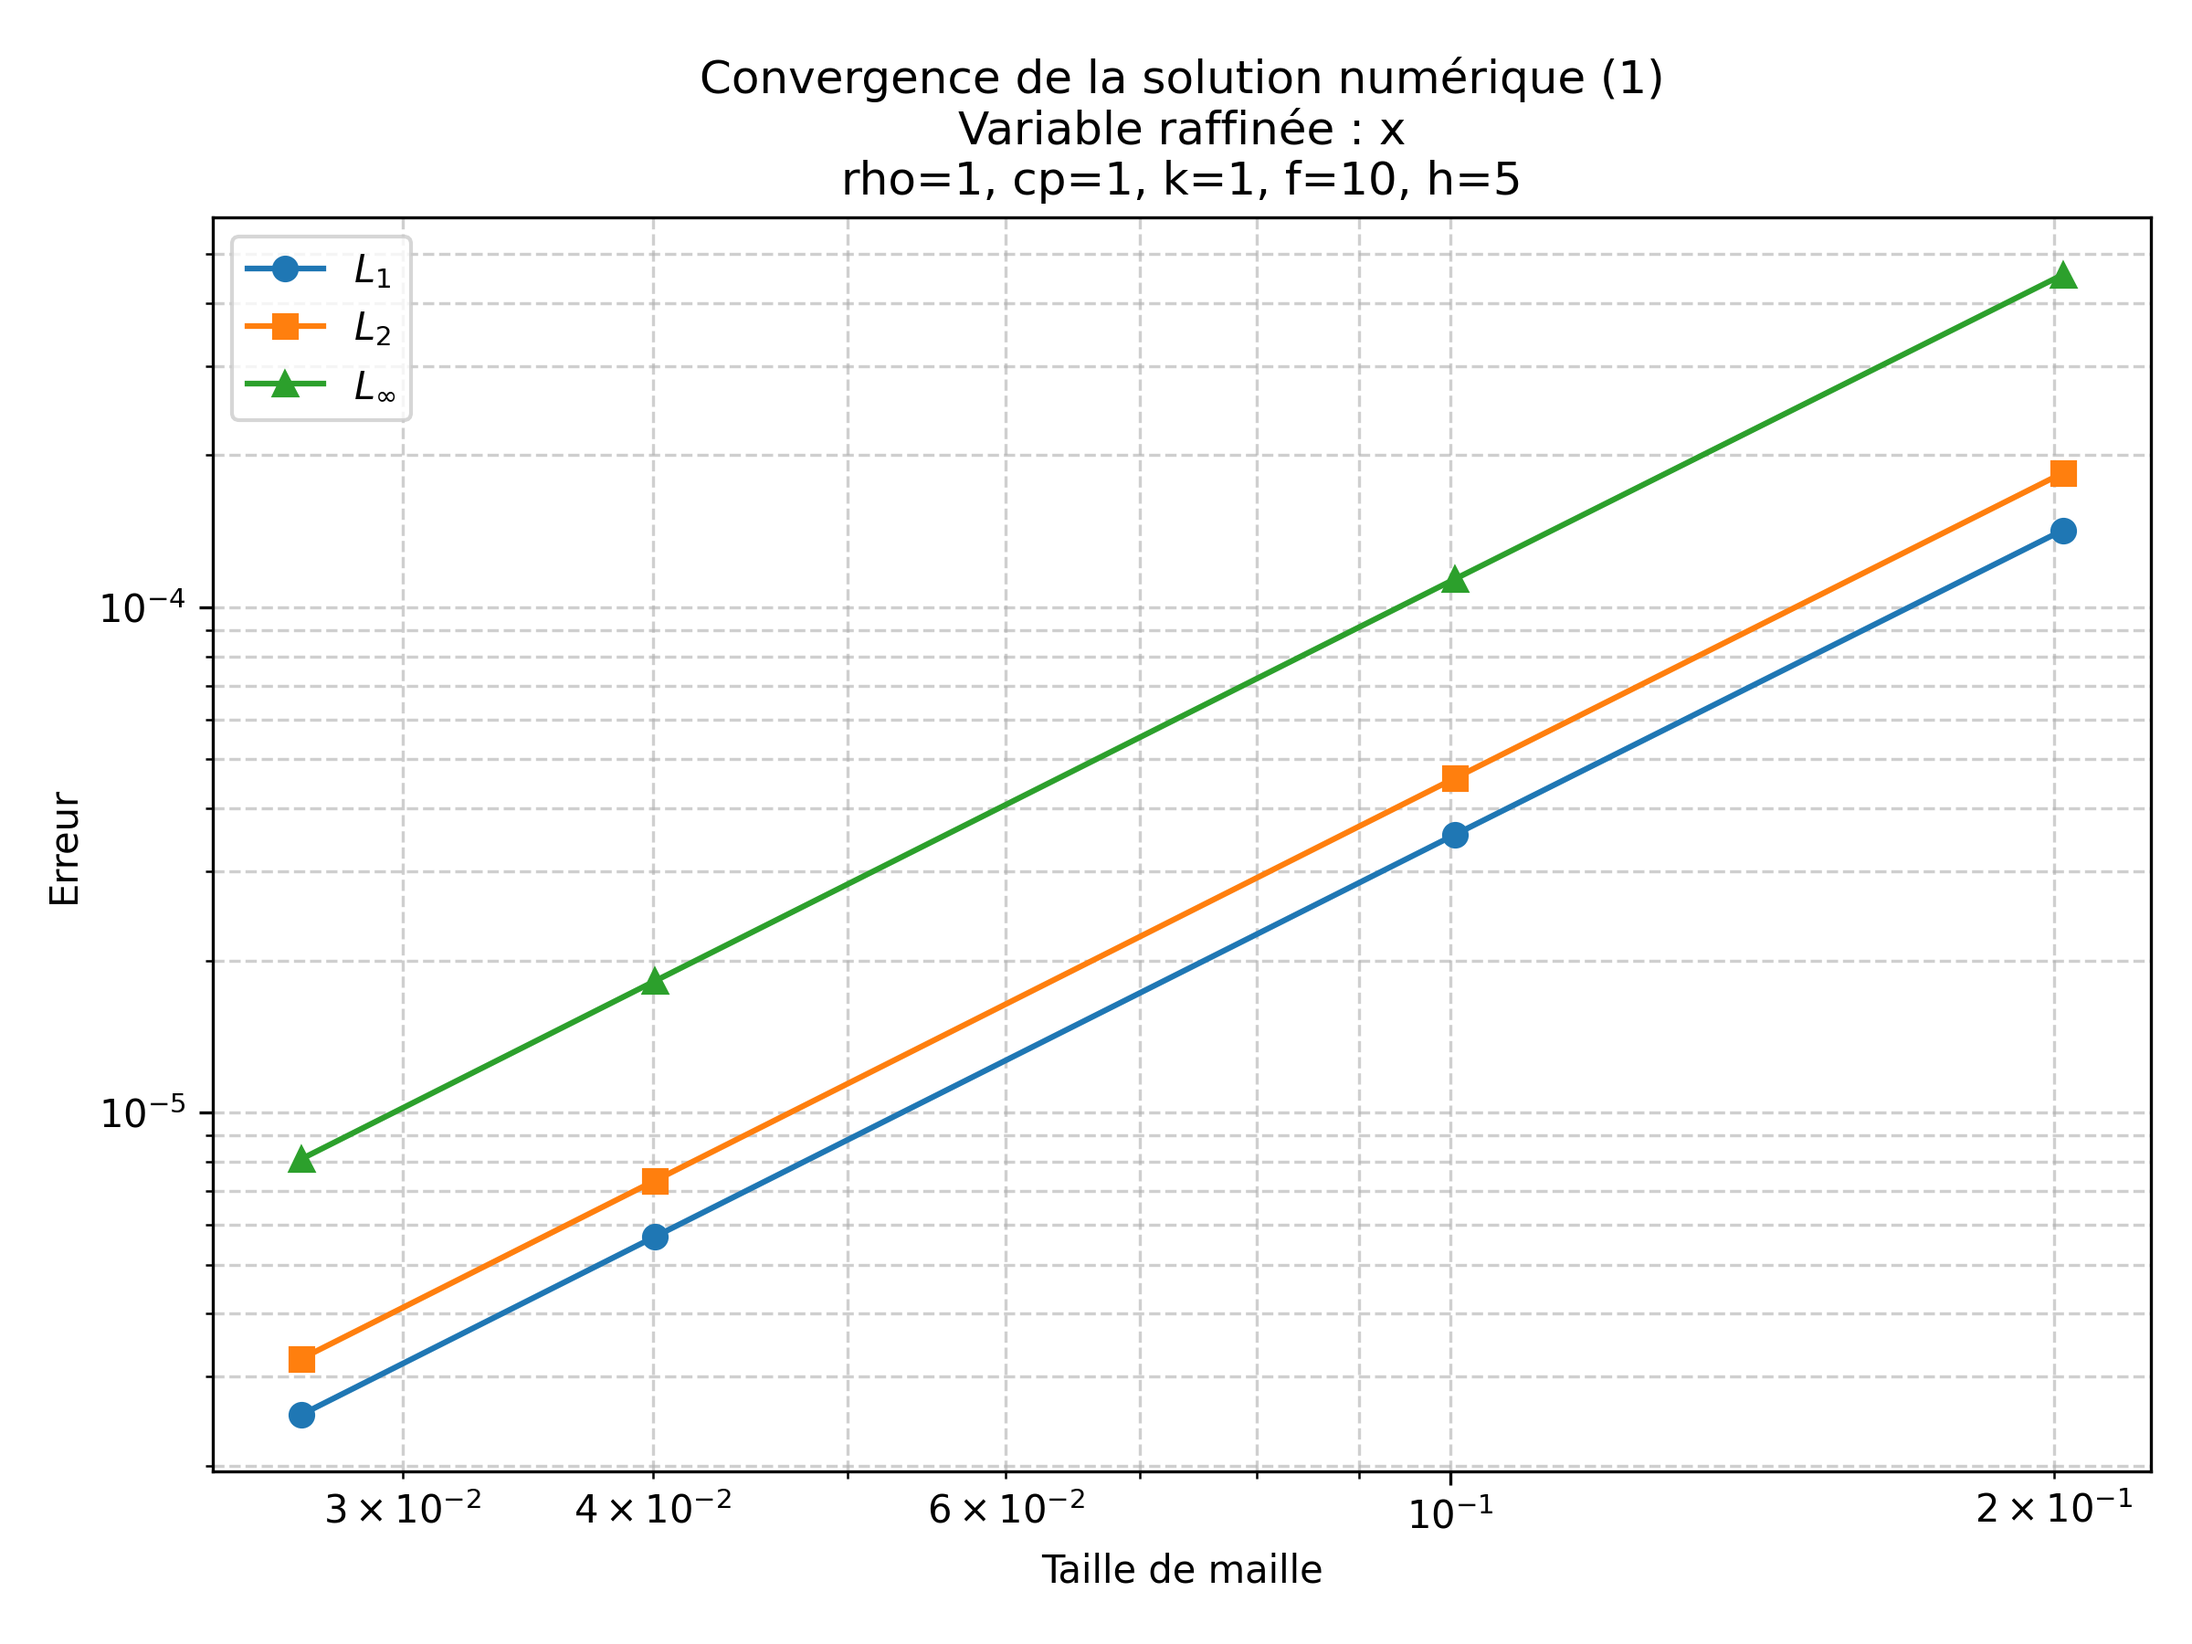
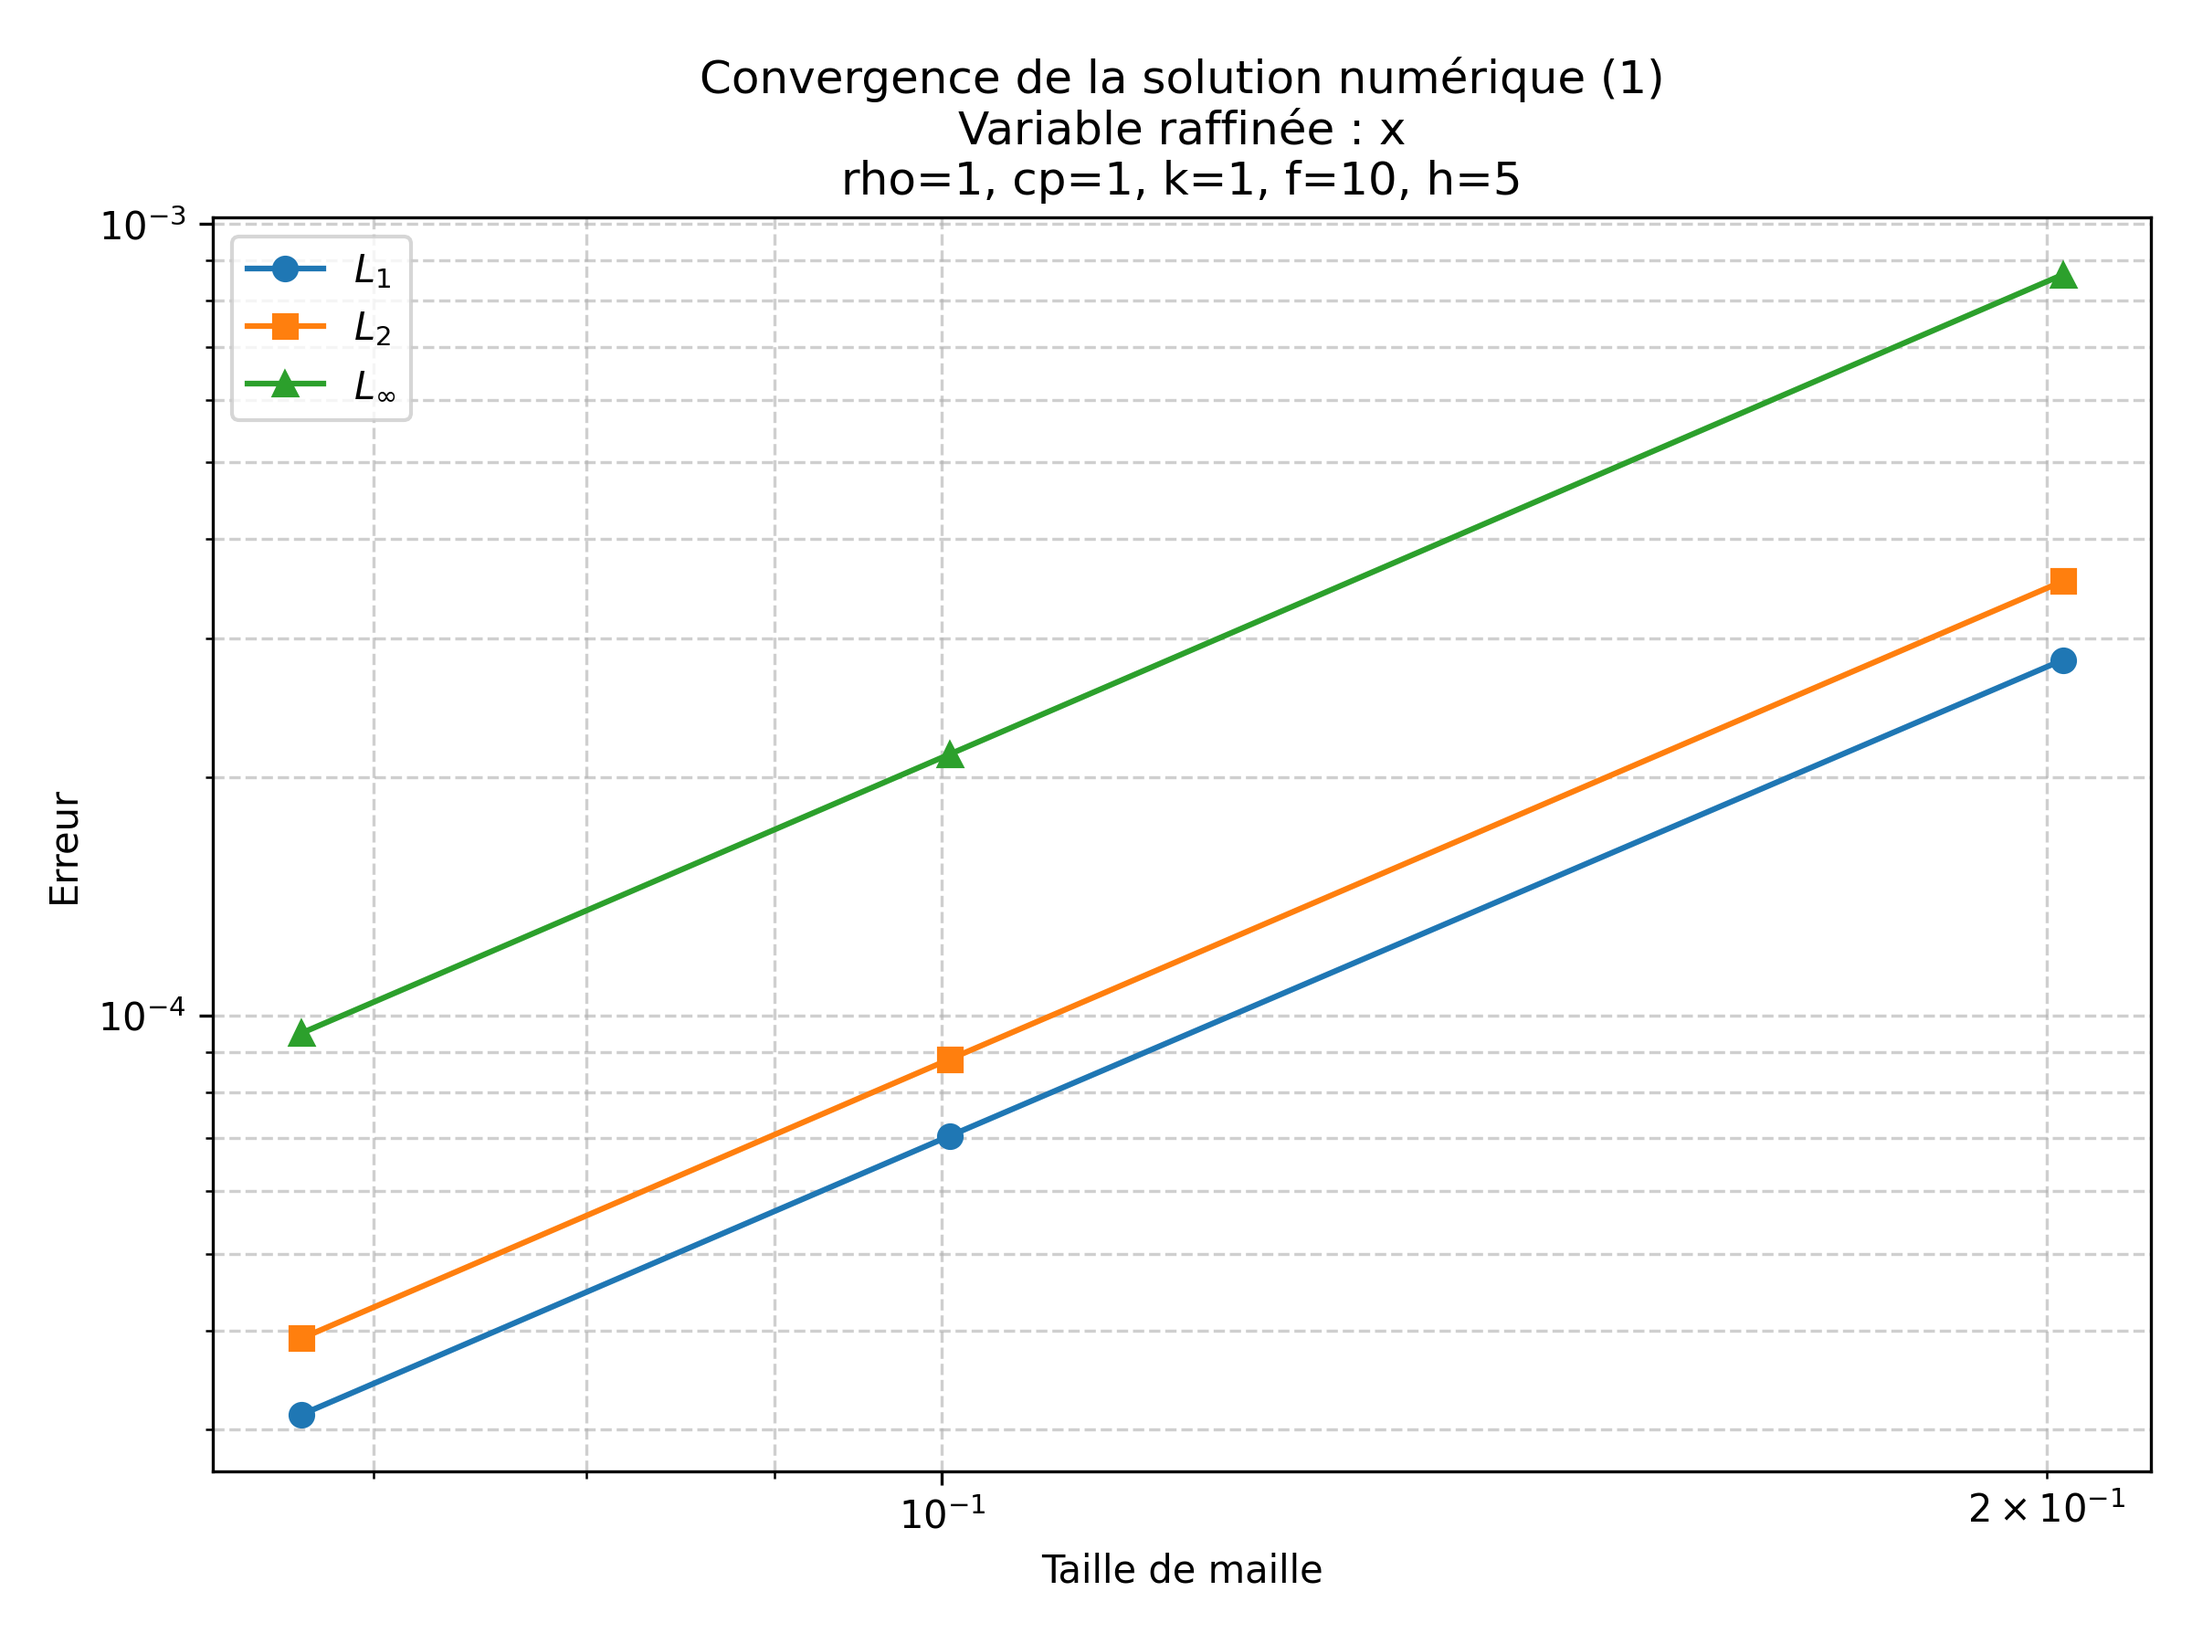
Ajout schéma upwind convergence MMS

diff --git a/Projet/src/mms.py b/Projet/src/mms.py
@@ -134,9 +134,9 @@ def generer_mms_simple(input_dict: dict, afficher_graphiques: bool = False, save
     return f_T_MMS, f_source, f_bc_left, f_bc_right, f_bc_bottom, f_tinf_top
 
 
-def mms_convergence_analysis(input_dict: dict, order):
+def mms_convergence_analysis(input_dict: dict, order,scheme='central'):
 
-    maille_list = [100,200,500,750]
+    maille_list = [100,200,300]
     discretization_list = [input_dict['b']/(nx-1) for nx in maille_list]
 
     l1_list_x = []
@@ -154,7 +154,7 @@ def mms_convergence_analysis(input_dict: dict, order):
                                          bc_left=f_bc_left, bc_right=f_bc_right, bc_bottom=f_bc_bottom, bc_top_tinf=f_tinf_top) 
         
         else: 
-            temperature_sim = solver_second_order(input_dict, sym_test = False, source_mms = f_source, 
+            temperature_sim = solver_second_order(input_dict, scheme, sym_test = False, source_mms = f_source, 
                                          bc_left=f_bc_left, bc_right=f_bc_right, bc_bottom=f_bc_bottom, bc_top_tinf=f_tinf_top)
 
         

diff --git a/Projet/main.py b/Projet/main.py
@@ -11,7 +11,7 @@ if __name__ == "__main__":
 
     input_dict = gen_input()
 
-    type_simul = 'temperature'   #type de simulation à réaliser : 'symmetry_test' ou 'temperature' ou 'temperature_mms ou solution_verification'
+    type_simul = 'temperature_mms'   #type de simulation à réaliser : 'symmetry_test' ou 'temperature' ou 'temperature_mms ou solution_verification'
     order = '2'                            #ordre de la simulation : '1' pour ordre 1 et '2' pour ordre 2     
 
     if type_simul == 'symmetry_test':
@@ -34,10 +34,12 @@ if __name__ == "__main__":
         save_input_as_csv(input_dict, f"results/input_parameters_order_{order}.csv")
 
     if type_simul == 'temperature_mms':
+        print('Vérification de la solution en cours...')
 
-        mms_convergence_analysis(input_dict, order)
+        mms_convergence_analysis(input_dict, order, scheme='upwind')
 
     if type_simul == 'solution_verification':
+        print('Vérification de la solution en cours...')
 
         solution_verification(input_dict,2)
 
